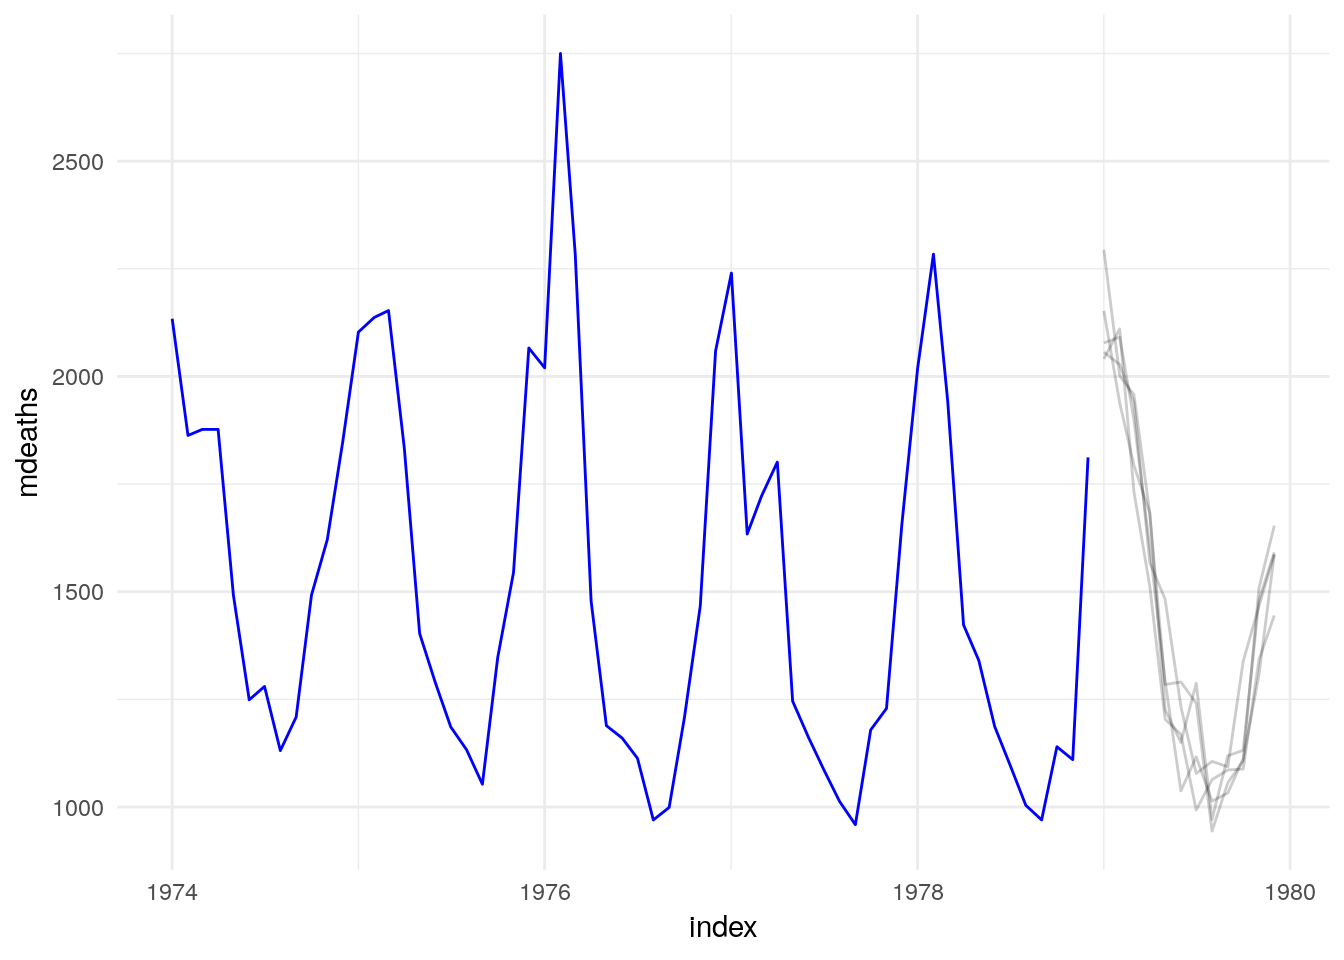
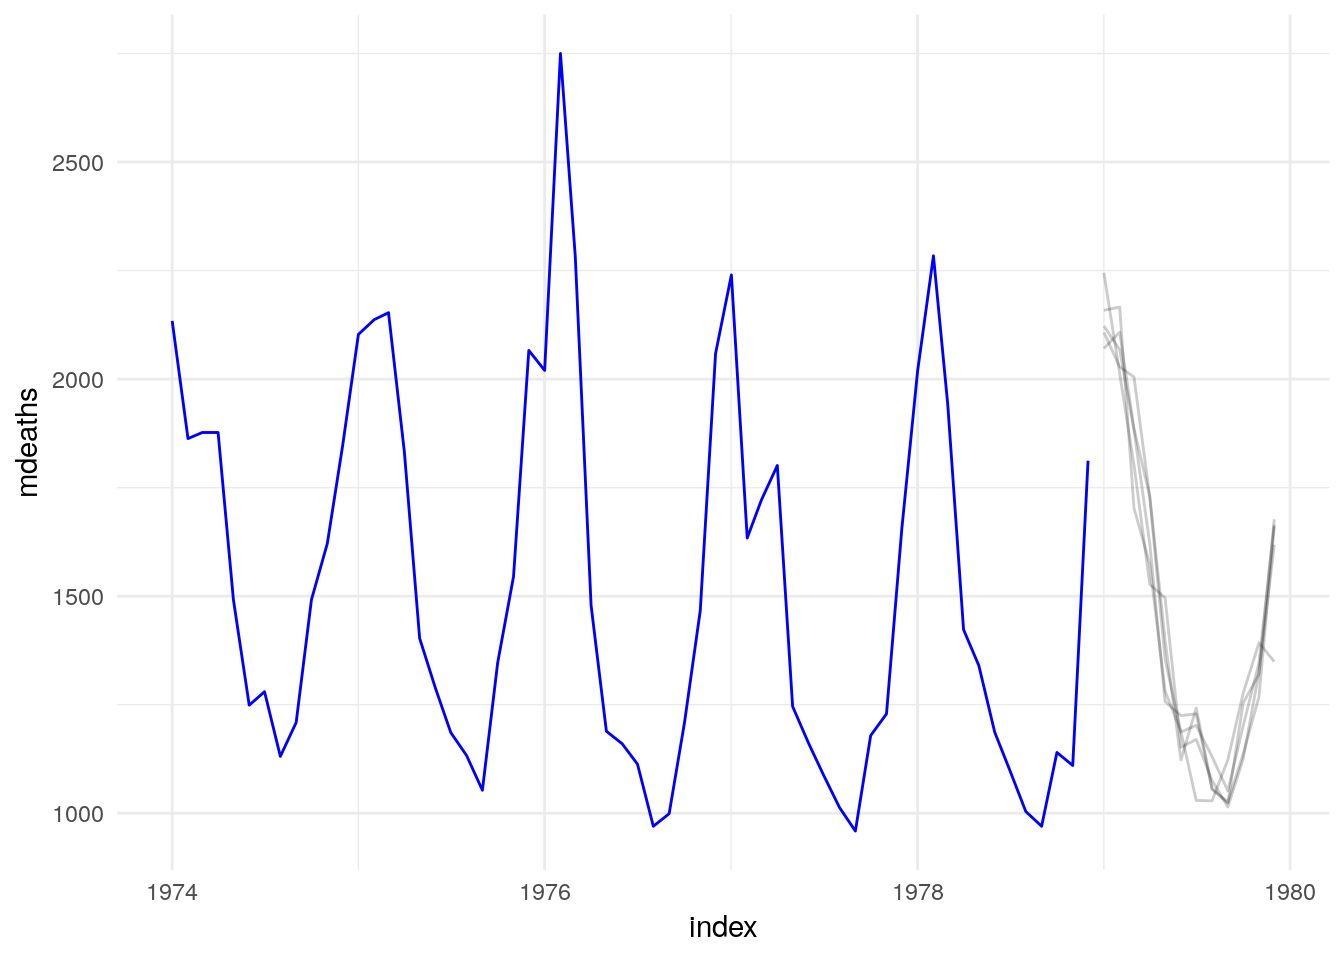
Added small note on model visualisation

diff --git a/docs/methods.html b/docs/methods.html
@@ -278,17 +278,17 @@ code span.wa { color: #60a0b0; font-weight: bold; font-style: italic; } /* Warni
 <p>It is expected that the innovations (<code>.innov</code>) for the simulation are randomly generated for each repition number (<code>rep</code>), which can be achieved using the <code>times</code> argument. However, users should also be able to provide a set of pre-generated innovations (<code>.innov</code>) for each repition (<code>.rep</code>). If these columns are provided in the <code>new_data</code>, then this data will be passed directly to the simulation method (without generating new numbers over <code>times</code> replications).</p>
 <pre><code>## # A tsibble: 9 x 5 [1M]
 ## # Key:       .rep [3]
-##    .rep     .idx   .innov    x1     x2
-##   &lt;int&gt;    &lt;mth&gt;    &lt;dbl&gt; &lt;dbl&gt;  &lt;dbl&gt;
-## 1     1 2017 Jan -0.834   1.84  -2.07 
-## 2     1 2017 Feb  0.257   4.28  -2.46 
-## 3     1 2017 Mar -0.231   5.07  -1.09 
-## 4     2 2017 Jan -1.15    0.947 -2.97 
-## 5     2 2017 Feb  0.148   3.80  -1.56 
-## 6     2 2017 Mar  0.714   3.71  -1.36 
-## 7     3 2017 Jan -0.00150 1.65  -0.899
-## 8     3 2017 Feb  0.986   4.33  -1.74 
-## 9     3 2017 Mar -1.18    3.67  -3.22</code></pre>
+##    .rep     .idx .innov     x1    x2
+##   &lt;int&gt;    &lt;mth&gt;  &lt;dbl&gt;  &lt;dbl&gt; &lt;dbl&gt;
+## 1     1 2017 Jan  1.69   1.04  -2.36
+## 2     1 2017 Feb  1.20   0.457 -3.23
+## 3     1 2017 Mar -0.627  3.35  -2.18
+## 4     2 2017 Jan  1.35  -1.00  -2.27
+## 5     2 2017 Feb -1.27  -1.25  -2.86
+## 6     2 2017 Mar -1.04   4.60  -2.67
+## 7     3 2017 Jan  3.12   1.48  -2.24
+## 8     3 2017 Feb -1.44   3.12  -3.38
+## 9     3 2017 Mar -0.870  1.08  -4.89</code></pre>
 <p>For the end user, creating simulations would work like this:</p>
 <div class="sourceCode" id="cb9"><pre class="sourceCode r"><code class="sourceCode r"><a class="sourceLine" id="cb9-1" data-line-number="1"><span class="kw">library</span>(fable)</a>
 <a class="sourceLine" id="cb9-2" data-line-number="2"><span class="kw">library</span>(tsibbledata)</a>
@@ -299,16 +299,16 @@ code span.wa { color: #60a0b0; font-weight: bold; font-style: italic; } /* Warni
 ## # Key:       .rep [5]
 ##       index  .rep  .sim
 ##       &lt;mth&gt; &lt;int&gt; &lt;dbl&gt;
-##  1 1974 Jan     1 2296.
-##  2 1974 Feb     1 1752.
-##  3 1974 Mar     1 1960.
-##  4 1974 Apr     1 1775.
-##  5 1974 May     1 1491.
-##  6 1974 Jun     1 1381.
-##  7 1974 Jul     1 1172.
-##  8 1974 Aug     1 1204.
-##  9 1974 Sep     1  953.
-## 10 1974 Oct     1 1470.
+##  1 1974 Jan     1 2248.
+##  2 1974 Feb     1 1666.
+##  3 1974 Mar     1 2218.
+##  4 1974 Apr     1 1872.
+##  5 1974 May     1 1273.
+##  6 1974 Jun     1 1078.
+##  7 1974 Jul     1 1340.
+##  8 1974 Aug     1 1073.
+##  9 1974 Sep     1 1152.
+## 10 1974 Oct     1 1573.
 ## # ... with 350 more rows</code></pre>
 <p><img src="tidy-forecasting_files/figure-html/sim-example-eval-1.png" width="672" /></p>
 <p>Or, if they wanted to simulate beyond the sample:</p>
@@ -324,21 +324,23 @@ code span.wa { color: #60a0b0; font-weight: bold; font-style: italic; } /* Warni
 ## # Key:       .rep [5]
 ##       index  .rep  .sim
 ##       &lt;mth&gt; &lt;int&gt; &lt;dbl&gt;
-##  1 1979 Jan     1 2152.
-##  2 1979 Feb     1 1939.
-##  3 1979 Mar     1 1793.
-##  4 1979 Apr     1 1683.
-##  5 1979 May     1 1226.
-##  6 1979 Jun     1 1150.
-##  7 1979 Jul     1 1288.
-##  8 1979 Aug     1  971.
-##  9 1979 Sep     1 1119.
-## 10 1979 Oct     1 1132.
+##  1 1979 Jan     1 2122.
+##  2 1979 Feb     1 2068.
+##  3 1979 Mar     1 1883.
+##  4 1979 Apr     1 1621.
+##  5 1979 May     1 1257.
+##  6 1979 Jun     1 1225.
+##  7 1979 Jul     1 1229.
+##  8 1979 Aug     1 1055.
+##  9 1979 Sep     1 1026.
+## 10 1979 Oct     1 1137.
 ## # ... with 50 more rows</code></pre>
 <p><img src="tidy-forecasting_files/figure-html/sim-future-eval-1.png" width="672" /></p>
 </div>
 <div id="visualisation" class="section level2">
 <h2><span class="header-section-number">5.7</span> Visualisation</h2>
+<p>Different plots are appropriate for visualising each type of model. For example, a plot of an ARIMA model may show the AR and/or MA roots from the model on a unit circle. A linear model has several common plots, including plots showing “Residuals vs Fitted” values, normality via a Q-Q plot, and measures of leverage. These model plots are further extended by the <a href="http://pbreheny.github.io/visreg/">visreg package</a> to show the affects of terms on the model’s response. Some models currently have no model-specific plots, such as ETS, which defaults to showing a components plot using the estimated states.</p>
+<p>Visualising these models poses a substantial challenge for consistency across models, and is made more difficult as batch modelling becomes commonplace.</p>
 
 </div>
 </div>
